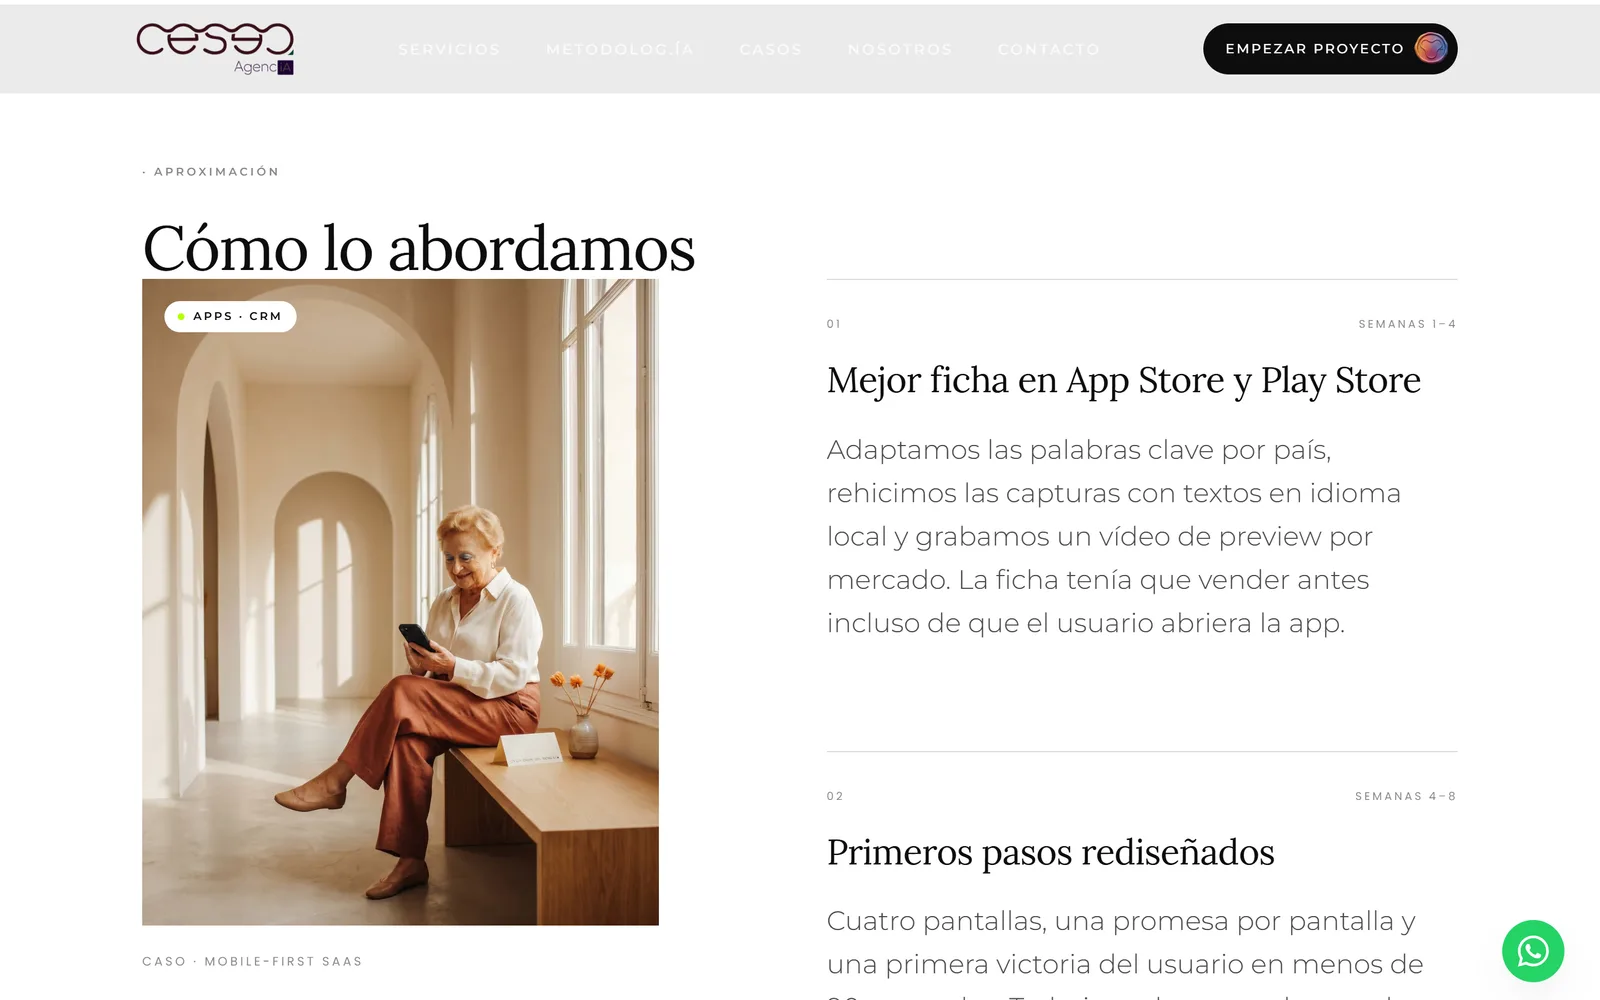
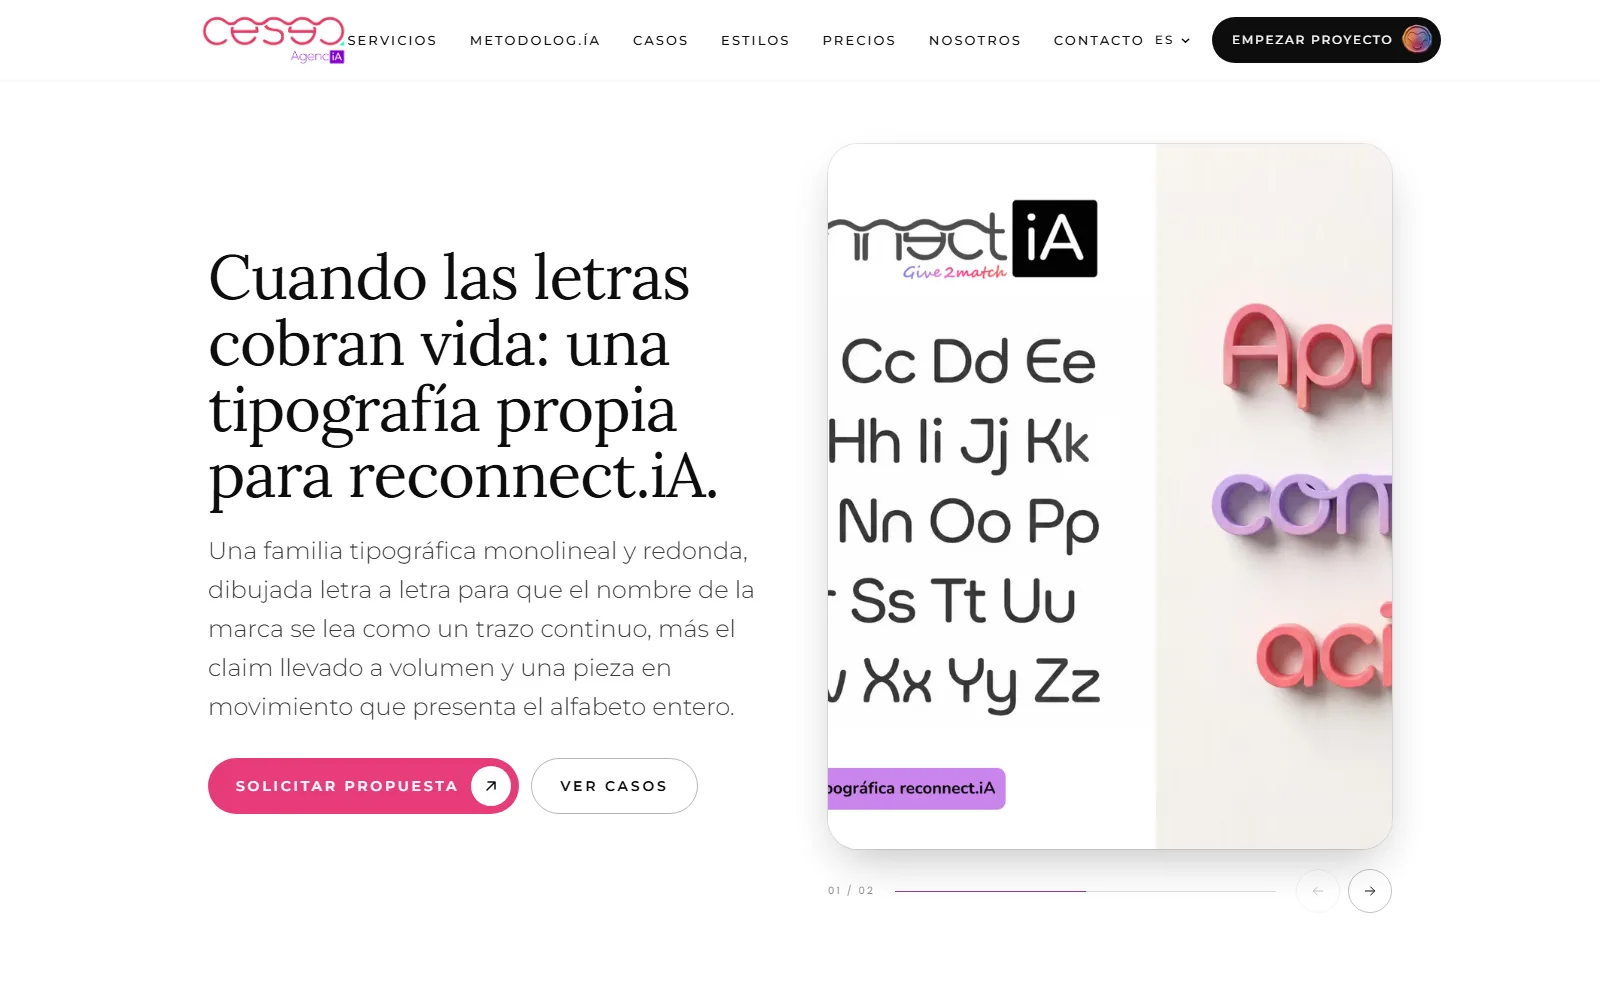
Update case study: six-language build, graphic styles and WhatsApp quote builder
The site grew past what the July write-up covered, so the case study now
documents the parts that carry real engineering weight.

- Internationalisation: six locales on identical routes, Spanish unprefixed,
  with the content corpus typed as Record<Locale, …Copy> so a missing key is a
  build error rather than an untranslated paragraph in production. Includes the
  failure mode the type system cannot catch — components reading a
  non-localised module — and how it was closed.
- Content model: non-linguistic data (routes, dimensions, colours) split from
  prose, so translators cannot break a route and the corpus stays out of the
  client bundle.
- Quote builder: pricing page with a live cart that hands the quote to
  WhatsApp, one source of truth shared with the FileMaker export, and an .xlsx
  writer built from raw OOXML and zlib instead of a spreadsheet dependency.
- Media pipelines: ffmpeg scripts that emit web assets plus the TypeScript
  snippet with real dimensions; last pass cut 191.8 MB to 10.9 MB.
- Performance note on the styles index: thirteen videos on one screen, loaded
  with preload="none" and played only while on screen.

Screenshots: added the styles index, the quote builder in Spanish and Russian,
and the Simplified Chinese page; refreshed the case index and case detail after
the August redesign.

diff --git a/README.md b/README.md
@@ -1,6 +1,6 @@
 # CeSeA Agenc.ia — website
 
-Editorial, motion-driven marketing site for a Spanish agency, built on Next.js 15 and TypeScript. Scroll choreography done by hand, a typographic system that carries the brand, and a backend that treats every inbound lead as untrusted input.
+Editorial, motion-driven marketing site for a Spanish agency, built on Next.js 15 and TypeScript. Scroll choreography done by hand, a typographic system that carries the brand, a six-language content corpus the type system refuses to let you half-translate, and a backend that treats every inbound lead as untrusted input.
 
 **Live:** https://ceseagencia.com
 
@@ -12,7 +12,7 @@ Editorial, motion-driven marketing site for a Spanish agency, built on Next.js 1
 
 CeSeA Agenc.ia is a marketing agency working around one idea: reaching people through the generational transition, with human craft driving the AI in the loop rather than the other way round. The site had to sell that positioning before a single line of copy was read, so the whole thing is built as one continuous editorial piece — a scroll-scrubbed video hero, chapters that read like a magazine spread, and case work presented the way a streaming service presents its catalogue.
 
-I designed and built it end to end: information architecture, the design system, every animated section, the SEO and structured-data layer, and the server side that turns a form submission into a notified, stored, deduplicated lead. It ships as a statically generated Next.js app — dozens of pre-rendered routes — with a small set of server routes for anything that touches a secret.
+I designed and built it end to end: information architecture, the design system, every animated section, the SEO and structured-data layer, the internationalisation down to the content model, and the server side that turns a form submission into a notified, stored, deduplicated lead. It ships as a statically generated Next.js app — **248 pre-rendered pages** across six languages — with a small set of server routes for anything that touches a secret.
 
 The brand voice is Spanish and unapologetically editorial, so the engineering had to stay invisible: no layout shift, no janky scrolljacking, motion that steps aside the moment a visitor asks it to.
 
@@ -21,19 +21,27 @@ The brand voice is Spanish and unapologetically editorial, so the engineering ha
 <table>
   <tr>
     <td width="50%"><img src="assets/02-home-services.webp" alt="Services scroll track"><br><sub><b>Home · services.</b> A horizontal scroll-track that pins and pans through the nine service lines.</sub></td>
+    <td width="50%"><img src="assets/06-casos-grid.webp" alt="Case index grid"><br><sub><b>Case index.</b> Poster grid ordered by service colour, so cases from the same discipline sit together.</sub></td>
+  </tr>
+  <tr>
+    <td width="50%"><img src="assets/10-estilos-grid.webp" alt="Graphic styles index"><br><sub><b>Graphic styles.</b> Eighteen art directions, each with a sampled palette and a muted looping video sample.</sub></td>
+    <td width="50%"><img src="assets/11-presupuestador.webp" alt="Quote builder"><br><sub><b>Quote builder.</b> Pick service, network, volume and format; the total adds up live and leaves over WhatsApp.</sub></td>
+  </tr>
+  <tr>
+    <td width="50%"><img src="assets/07-caso-detalle.webp" alt="Case study detail"><br><sub><b>Case study.</b> A reusable template: piece slider, challenge and approach as flip-cards, process timeline, video.</sub></td>
+    <td width="50%"><img src="assets/12-multiidioma-zh.webp" alt="Simplified Chinese version"><br><sub><b>Same page, Simplified Chinese.</b> Identical routes in six languages; CJK falls back to system stacks by design.</sub></td>
+  </tr>
+  <tr>
     <td width="50%"><img src="assets/05-sector-salud-dental.webp" alt="Dental sector landing"><br><sub><b>Sector landing.</b> Dark editorial hero with the flip-cards that frame each vertical as <i>reto / abordaje</i>.</sub></td>
-  </tr>
-  <tr>
-    <td width="50%"><img src="assets/06-casos-grid.webp" alt="Case index grid"><br><sub><b>Case index.</b> Poster grid, one tile per vertical, each art-directed for its sector.</sub></td>
-    <td width="50%"><img src="assets/07-caso-detalle.webp" alt="Case study detail"><br><sub><b>Case study.</b> A reusable template: challenge, approach timeline, process visual, results.</sub></td>
-  </tr>
-  <tr>
-    <td width="50%"><img src="assets/04-sectores.webp" alt="Sectors index"><br><sub><b>Sectors.</b> Type-led index built on the display serif.</sub></td>
     <td width="50%"><img src="assets/08-metodologia.webp" alt="Methodology page"><br><sub><b>Methodology.</b> Three phases, marked up as <code>HowTo</code> structured data.</sub></td>
   </tr>
   <tr>
-    <td width="50%"><img src="assets/03-home-diferenciadores.webp" alt="Differentiators section"><br><sub><b>Home · differentiators.</b> Colour-blocked cards over the cream base.</sub></td>
+    <td width="50%"><img src="assets/04-sectores.webp" alt="Sectors index"><br><sub><b>Sectors.</b> Type-led index built on the display serif.</sub></td>
     <td width="50%"><img src="assets/09-servicio-seo.webp" alt="Service detail page"><br><sub><b>Service detail.</b> Deliverables laid out as hover-to-expand cards.</sub></td>
+  </tr>
+  <tr>
+    <td width="50%"><img src="assets/03-home-diferenciadores.webp" alt="Differentiators section"><br><sub><b>Home · differentiators.</b> Colour-blocked cards over the cream base.</sub></td>
+    <td width="50%"><img src="assets/13-presupuestador-ru.webp" alt="Quote builder in Russian"><br><sub><b>Quote builder, Russian.</b> The same interactive surface, localised down to plural forms and currency format.</sub></td>
   </tr>
 </table>
 
@@ -45,20 +53,51 @@ The brand voice is Spanish and unapologetically editorial, so the engineering ha
 | Language | TypeScript |
 | Styling | Tailwind CSS v4 — tokens declared in a `@theme` block, no `tailwind.config` |
 | Motion | Framer Motion, Lenis (smooth scroll) |
+| i18n | next-intl 4 — six locales, ICU messages, reciprocal `hreflang` |
 | Type | Lora (display), Montserrat (body), Poppins (labels), self-hosted via `next/font` |
 | Forms | React Hook Form + Zod |
 | Backend | Next.js route handlers, Nodemailer (SMTP), Supabase, Notion API |
+| Media tooling | Node + ffmpeg pipelines for video, posters, palettes and cover crops |
 | Delivery | Standalone build, containerised, self-hosted behind a reverse proxy |
+
+Thirteen production dependencies. No component library, no CSS-in-JS, no state client: the state that exists is local and fits in `useState`.
 
 ## Architecture
 
-**Rendering & routing.** Everything the public sees is statically generated. Services, sectors and case studies are dynamic segments resolved at build time through `generateStaticParams`, so a new case study is a data entry, not a new page. The only server code that runs per request is the handful of route handlers behind the forms — the surface that needs a secret is kept deliberately small.
+**Rendering & routing.** Everything the public sees is statically generated — 248 pages, six locales. Services, sectors, case studies and graphic styles are dynamic segments resolved at build time through `generateStaticParams`, so a new case study is a data entry, not a new page. The only server code that runs per request is the handful of route handlers behind the forms — the surface that needs a secret is kept deliberately small.
+
+**Six languages, enforced by the compiler.** Spanish, English, French, Italian, Russian and Simplified Chinese, on identical routes, with Spanish left unprefixed so the historical URLs never moved. Language is a deliberate choice, not a guess: no `Accept-Language` sniffing and no locale cookie, which keeps the site deterministic for crawlers and keeps the cookie policy honest.
+
+The interesting part is that translations can't rot. Every content area is typed as `Record<Locale, …Copy>`, so **a missing key in one language is a build error, not a silently English paragraph in the Russian page**. Parallel arrays (image alts, form options) must keep their length, and one case-study rule — the highlighted phrase must be a literal substring of the quote it highlights — is checked over all six languages before release.
+
+**Content as a typed corpus.** Each area is split in two halves: everything non-linguistic (routes, image dimensions, hex colours, slugs, service mappings) lives in `*.shared.ts`, and only prose lives in `<area>/<locale>.ts`. A translator literally cannot break a route or a brand colour, because those aren't in the file they edit. Client components import the `shared` half only, which keeps the whole translated corpus out of the browser bundle.
+
+That split also caught a real failure mode. The type system guarantees the corpus is translated — it can't tell you that a component is reading a *non-localised* module. Three of them were pulling copy from a Spanish snapshot, which is why the footer shipped in Spanish across all five non-Spanish locales until I traced it. The fix removed the tempting export entirely, so the shortcut no longer exists.
 
 **Motion.** The hero is a scroll-scrubbed frame sequence pinned across several viewport heights; scroll position drives playback, with a video fallback. Below it, a velocity-tied marquee, full-bleed scroll chapters, word-by-word reveals and the flip-cards all hang off Lenis and Framer Motion. Two rules kept it honest: no animation may cause layout shift, and everything checks `prefers-reduced-motion` and switches off cleanly.
 
-**Design system.** Three typefaces, a fixed palette, and spacing/colour tokens declared once in a Tailwind v4 `@theme` block. Sections compose from the same primitives, which is why new sector landings and case studies stay visually consistent with no extra design work.
+**Design system.** Three typefaces, a fixed palette, and spacing/colour tokens declared once in a Tailwind v4 `@theme` block. Sections compose from the same primitives, which is why new sector landings, case studies and style cards stay visually consistent with no extra design work.
 
-**SEO & structured data.** This is a marketing agency, so the site has to practise what it sells. It emits a full JSON-LD graph — `Organization` (with each office modelled as a `LocalBusiness`, geo and opening hours), `WebSite` with a `SearchAction`, `Service` catalogues, `FAQPage`, `HowTo`, `BreadcrumbList`, `Article` and `Review` — cross-linked by stable `@id`s. Sitemap and robots are generated in code; metadata, canonicals and Open Graph are set per route. Images are served as AVIF/WebP through `next/image`.
+**SEO & structured data.** This is a marketing agency, so the site has to practise what it sells. It emits a full JSON-LD graph — `Organization` (with each office modelled as a `LocalBusiness`, geo and opening hours), `WebSite` with a `SearchAction`, `Service` catalogues, `FAQPage`, `HowTo`, `BreadcrumbList`, `Article` and `Review` — cross-linked by stable `@id`s, with `inLanguage` per locale. Reciprocal `hreflang` plus `x-default`, a multilingual sitemap generated from the corpus itself, and per-route canonicals and Open Graph. Images are served as AVIF/WebP through `next/image`.
+
+## Quote builder that hands off to WhatsApp
+
+The pricing page is a small commerce surface without a checkout. You pick a service, choose the network from a dropdown, set how many pieces a month and whether they're stills or video — stills and video are priced independently — and the total adds up live. Submitting opens WhatsApp with the quote already written out, so there's no form to wait on and no lead sitting in an inbox.
+
+Two decisions carry it:
+
+- **One source of truth for money.** The rate card lives in a single typed module that feeds the page, the WhatsApp message and the spreadsheet the agency imports into FileMaker. They cannot drift, because there is nothing to keep in sync.
+- **Unpriced work stays unpriced.** Anything the rate card resolves "on production" is modelled as `price: null`: it can be added to the quote and travels in the message, but it never invents a number or silently inflates a total.
+
+The FileMaker export writes a real `.xlsx` by generating the OOXML parts and packing the ZIP with `zlib` — local headers, CRC32, central directory — rather than pulling a spreadsheet library into a project that only needs to emit one report. It also drops a `;`-separated CSV with a BOM, which is what Excel in Spanish and FileMaker actually expect.
+
+## Media pipelines
+
+Client material arrives as a shared drive full of raw exports. Three Node + ffmpeg scripts turn it into web assets and then **print the TypeScript snippet with the real dimensions** to paste into the corpus, so the data layer can't disagree with the files on disk.
+
+They handle the hero frame sequence, the case-study sets (video, poster, slider pieces, flip-card faces, and 16:9 covers composited over a blurred frame when the source is vertical) and the style samples. The most recent pass took **191.8 MB of raw material down to 10.9 MB of web assets — 94% smaller** — muting and looping the video samples, which are decorative. Every script is idempotent, skips what's missing with a warning instead of failing, and never touches the originals.
+
+On the page, thirteen of those videos share one screen: they load with `preload="none"` and only play while their card is actually on screen, so the landing never starts thirteen downloads at once.
 
 ## Lead capture, handled like untrusted input
 
@@ -80,7 +119,9 @@ Still on the backlog: shared-store rate limiting (Redis) for multi-instance, and
 
 ## Performance & accessibility
 
-Static delivery keeps TTFB low; fonts are self-hosted and preloaded to avoid a third-party round-trip; images are responsive AVIF/WebP. Motion is opt-out via `prefers-reduced-motion`, focus states are visible throughout, and structure stays semantic so the page reads without JavaScript.
+Static delivery keeps TTFB low; fonts are self-hosted and preloaded to avoid a third-party round-trip; images are responsive AVIF/WebP and video is H.264 with `faststart`. There is no third-party JavaScript at all — no analytics, no CDN fonts, no embeds — which is what lets the CSP stay `'self'`.
+
+Motion is opt-out via `prefers-reduced-motion`, focus states are visible throughout, and structure stays semantic so the page reads without JavaScript. Alt text is written per image rather than generated, `aria-label`s are localised across all six languages, and decorative video is muted and marked as such. Cyrillic ships as a real font subset; CJK deliberately falls back to system stacks instead of shipping megabytes of webfont.
 
 ---
 
